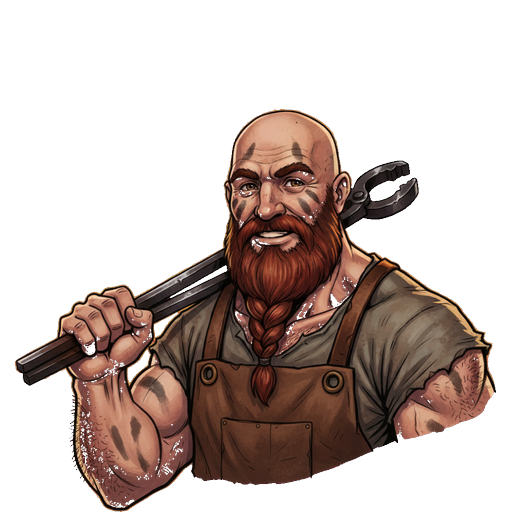
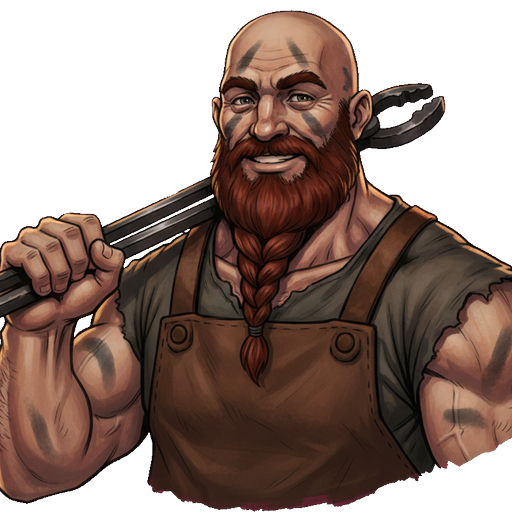
fix(npc): upscale and calibrate blacksmith bust scale to match other merchants

diff --git a/pipeline/scripts/generate_smith_scale.py b/pipeline/scripts/generate_smith_scale.py
@@ -1,0 +1,244 @@
+import os
+import sys
+import io
+import time
+import json
+import base64
+import urllib.request
+import numpy as np
+from PIL import Image
+from scipy import ndimage as ndi
+
+REPO_DIR = r"C:\Users\pissio\Creazione-Gioco-RPG-"
+PIPELINE_DIR = os.path.join(REPO_DIR, "pipeline")
+RAW_DIR = os.path.join(r"C:\Users\pissio\iron-oath-art", "raw_nodes_npcs")
+NPC_DIR = os.path.join(REPO_DIR, "assets", "art", "npc")
+
+GEMINI_KEY = os.environ.get("GEMINI_API_KEY")
+if not GEMINI_KEY:
+    env_p = os.path.join(PIPELINE_DIR, ".env")
+    if os.path.exists(env_p):
+        with open(env_p, "r", encoding="utf-8") as f:
+            for line in f:
+                if line.startswith("GEMINI_API_KEY="):
+                    GEMINI_KEY = line.strip().split("=", 1)[1]
+                    break
+
+API_URL = "https://generativelanguage.googleapis.com/v1beta/models/gemini-2.5-flash-image:generateContent"
+
+REF_PATHS = [
+    os.path.join(REPO_DIR, "assets", "art", "enemies", "anvil_golem_idle.png"),
+    os.path.join(REPO_DIR, "assets", "art", "bosses", "living_bellows_idle.png"),
+    os.path.join(REPO_DIR, "assets", "art", "enemies", "hollow_goblin_idle.png"),
+]
+
+def load_ref_b64(path, max_dim=512):
+    im = Image.open(path)
+    im.thumbnail((max_dim, max_dim), Image.Resampling.LANCZOS)
+    buf = io.BytesIO()
+    im.save(buf, format="PNG")
+    return base64.b64encode(buf.getvalue()).decode("utf-8")
+
+CACHED_REFS = []
+for rp in REF_PATHS:
+    if os.path.exists(rp):
+        CACHED_REFS.append({
+            "name": os.path.basename(rp),
+            "b64": load_ref_b64(rp)
+        })
+
+GLOBAL_STYLE_INSTRUCTION = (
+    "STYLE REFERENCES: Match the painting technique, inked outlines, level of detail, textural brushwork, "
+    "and lighting of these reference images, but draw a completely different subject and use ONLY the colours written in this prompt.\n"
+    "Aesthetic: Hand-painted dark fantasy illustration, souls-like mobile game art style (Dark Souls, Elden Ring, Gym Oath). "
+    "Bold expressive black ink outlines defining the outer silhouette and internal anatomy/folds/crevices. "
+    "Painterly cel-shading with rich but muted weathered colours, deep charcoal shadows (#0D0B09), warm antique gold rim light (#C9A24A), "
+    "high contrast, sharp graphic readability even when scaled down to a small thumbnail. "
+    "NO 3D CGI, no photographic skin, no smooth airbrushing, no flat cartoon, no anime, no modern elements.\n"
+    "CRITICAL BACKGROUND RULE: Flat solid uniform magenta background #FF00FF filling the entire canvas from edge to edge. "
+    "Pure solid uniform magenta #FF00FF background only. Absolutely NEVER use any magenta, fuchsia, or pink on the subject, skin, clothes, props, or effects. "
+    "No text, no watermark, no frame, no borders, no ground shadow plate, no UI."
+)
+
+SMITH_PROMPT = (
+    f"{GLOBAL_STYLE_INSTRUCTION}\n\n"
+    "SUBJECT: Master Gorran the Blacksmith (Large Close-Up Bust)\n"
+    "FRAMING & SCALE (CRITICAL): Large close-up bust portrait filling the canvas height and width! "
+    "The head and face are large and prominent: the top of his rounded bald head is positioned in the upper portion of the canvas near the top edge, "
+    "with only a tiny breathing space above his skull. "
+    "The portrait is cut cleanly at mid-chest (just under the collarbones and broad shoulders), exactly like a classic RPG character portrait bust. "
+    "Do NOT zoom out, do NOT show down to the waist or hips, do NOT leave large empty gaps above the head. "
+    "Broad powerful shoulders completely fill the canvas width from left to right edge.\n"
+    "DETAILS: Big bald man in his forties, hearty friendly jovial smile, warm kind eyes looking directly straight into the camera / at the viewer, "
+    "thick braided red-brown beard with a few singed hairs. "
+    "Black soot smudges on his forehead and rugged muscular cheeks, thick powerful neck. "
+    "Heavy leather apron over a sleeveless sweat-darkened coarse grey shirt. "
+    "He raises his thick muscular, hairy, soot-stained arm to firmly grip and hold the heavy iron blacksmith tongs resting securely over his shoulder with his hand. "
+    "Glow of the forge lighting him warm forge orange from below on one side. Welcoming master craftsman greeting the player warmly. "
+    "Colours strictly: steel grey, leather brown, forge orange, natural ruddy weathered skin tones. Bold black inked outlines."
+)
+
+def generate_smith(index=1):
+    parts = []
+    for ref in CACHED_REFS:
+        parts.append({"text": f"Style Reference ({ref['name']}): Match this dark fantasy inking and painterly shading style:"})
+        parts.append({"inlineData": {"mimeType": "image/png", "data": ref["b64"]}})
+    parts.append({"text": SMITH_PROMPT})
+    
+    payload = {"contents": [{"parts": parts}]}
+    headers = {
+        "Content-Type": "application/json",
+        "x-goog-api-key": GEMINI_KEY
+    }
+    
+    req = urllib.request.Request(API_URL, data=json.dumps(payload).encode("utf-8"), headers=headers)
+    print(f"Calling Gemini for Smith candidate {index}...")
+    with urllib.request.urlopen(req, timeout=90) as resp:
+        data = json.loads(resp.read().decode("utf-8"))
+        for p in data["candidates"][0]["content"]["parts"]:
+            if "inlineData" in p:
+                raw_bytes = base64.b64decode(p["inlineData"]["data"])
+                raw_path = os.path.join(RAW_DIR, f"smith_candidate_{index}.png")
+                with open(raw_path, "wb") as f_out:
+                    f_out.write(raw_bytes)
+                print(f"Candidate {index} saved -> {raw_path}")
+                return raw_path
+    return None
+
+def hue(c):
+    c = np.asarray(c, dtype=float)
+    return np.degrees(np.arctan2(np.sqrt(3) * (c[..., 1] - c[..., 2]), 2 * c[..., 0] - c[..., 1] - c[..., 2]))
+
+def count_pink_pixels(img_rgba, bgc=np.array([255.0, 0.0, 255.0])):
+    ar = np.asarray(img_rgba).astype(float)
+    r, g, b, a = ar[..., 0], ar[..., 1], ar[..., 2], ar[..., 3]
+    h = hue(ar[..., :3])
+    dh = np.abs(((h - hue(bgc)) + 180) % 360 - 180)
+    chroma = ar[..., :3].max(-1) - ar[..., :3].min(-1)
+    pink = (a > 20) & (dh < 24) & (chroma > 80) & (r > g + 40) & (b > g + 20)
+    return int(pink.sum())
+
+def process_smith_cutout(raw_path, target_size=512):
+    im_pil = Image.open(raw_path).convert("RGB")
+    im = np.asarray(im_pil, dtype=float)
+    
+    border = np.concatenate([im[0], im[-1], im[:, 0], im[:, -1]])
+    bgc = np.median(border, axis=0)
+    
+    r, g, b = im[..., 0], im[..., 1], im[..., 2]
+    mx, mn = im.max(-1), im.min(-1)
+    sat = (mx - mn) / np.maximum(mx, 1.0)
+    dh = np.abs(((hue(im) - hue(bgc)) + 180) % 360 - 180)
+    
+    bgish = (dh < 30) & (sat > 0.22) & (r > 120) & (b > 65) & (g < 110)
+    labeled, num_features = ndi.label(bgish)
+    border_labels = set(np.unique(np.concatenate([labeled[0], labeled[-1], labeled[:, 0], labeled[:, -1]]))) - {0}
+    bg = np.isin(labeled, list(border_labels))
+    
+    for lbl in range(1, num_features + 1):
+        if lbl not in border_labels:
+            mask_lbl = (labeled == lbl)
+            if mask_lbl.sum() >= 2:
+                m_color = im[mask_lbl].mean(0)
+                dh_pocket = np.abs(((hue(m_color) - hue(bgc)) + 180) % 360 - 180)
+                if dh_pocket < 20 and m_color[2] > 60 and m_color[0] > 110 and m_color[1] < 100:
+                    bg |= mask_lbl
+                    
+    obj = ~bg
+    
+    # Outer halo strip
+    for _ in range(5):
+        edge = obj & ~ndi.binary_erosion(obj, border_value=1)
+        edge_dh = dh[edge]
+        edge_r = r[edge]
+        edge_g = g[edge]
+        edge_b = b[edge]
+        is_halo = (edge_dh < 35) & (edge_r > edge_g + 15) & (edge_b > edge_g + 8)
+        edge_to_strip = np.zeros_like(obj)
+        edge_to_strip[edge] = is_halo
+        if not edge_to_strip.any():
+            break
+        obj &= ~edge_to_strip
+        
+    im_clean = im.copy()
+    for _ in range(2):
+        edge_outer = obj & ~ndi.binary_erosion(obj, border_value=1)
+        edge_pinkish = edge_outer & (dh < 40) & (im_clean[..., 0] > im_clean[..., 1] + 8) & (im_clean[..., 2] > im_clean[..., 1] + 5)
+        im_clean[edge_pinkish, 0] = np.minimum(im_clean[edge_pinkish, 0], im_clean[edge_pinkish, 1] + 5)
+        im_clean[edge_pinkish, 2] = np.minimum(im_clean[edge_pinkish, 2], im_clean[edge_pinkish, 1] + 5)
+    
+    alpha = np.where(obj, 255.0, 0.0)
+    ys, xs = np.nonzero(obj)
+    if len(ys) == 0:
+        raise ValueError("No object found")
+        
+    y0, y1 = ys.min(), ys.max() + 1
+    x0, x1 = xs.min(), xs.max() + 1
+    
+    obj_crop = im_clean[y0:y1, x0:x1]
+    alpha_crop = alpha[y0:y1, x0:x1]
+    rgba_crop = np.dstack([obj_crop.astype(np.uint8), alpha_crop.astype(np.uint8)])
+    crop_img = Image.fromarray(rgba_crop, "RGBA")
+    
+    obj_w, obj_h = crop_img.size
+    print(f"Raw cut crop dimensions: width={obj_w}, height={obj_h}, aspect={obj_w/obj_h:.2f}")
+    
+    # Scaling strategy for NPC bust:
+    # We want height to be around 495-512 px, with top around y=0..15, and width <= 495 px.
+    # If the bust is wider, we scale by height (e.g. height = 505) and center horizontally,
+    # or scale so max(w, h) fits properly without dwarfing the character.
+    target_h = int(round(target_size * 0.98))  # ~502 px
+    scale_by_h = target_h / float(obj_h)
+    
+    target_w = int(round(target_size * 0.94))  # ~481 px
+    scale_by_w = target_w / float(obj_w)
+    
+    # Use the scale that makes the head large enough:
+    # If scaling by width makes height < 460, scale by height instead so the character is NOT tiny!
+    if obj_h * scale_by_w < 460:
+        # Scale by height!
+        scale = scale_by_h
+        new_h = target_h
+        new_w = int(round(obj_w * scale))
+    else:
+        scale = min(scale_by_w, scale_by_h)
+        new_w = int(round(obj_w * scale))
+        new_h = int(round(obj_h * scale))
+        
+    resized_obj = crop_img.resize((new_w, new_h), Image.Resampling.LANCZOS)
+    
+    final_canvas = Image.new("RGBA", (target_size, target_size), (0, 0, 0, 0))
+    paste_x = (target_size - new_w) // 2
+    paste_y = target_size - new_h
+    
+    final_canvas.paste(resized_obj, (paste_x, paste_y), resized_obj)
+    
+    # Ensure pink pixels = 0
+    pk = count_pink_pixels(final_canvas)
+    if pk > 0:
+        arr_fin = np.asarray(final_canvas).copy().astype(float)
+        r_f, g_f, b_f, a_f = arr_fin[..., 0], arr_fin[..., 1], arr_fin[..., 2], arr_fin[..., 3]
+        h_f = hue(arr_fin[..., :3])
+        dh_f = np.abs(((h_f - hue(bgc)) + 180) % 360 - 180)
+        chroma_f = arr_fin[..., :3].max(-1) - arr_fin[..., :3].min(-1)
+        pink_f = (a_f > 20) & (dh_f < 24) & (chroma_f > 80) & (r_f > g_f + 40) & (b_f > g_f + 20)
+        arr_fin[pink_f, 0] = np.maximum(0, arr_fin[pink_f, 1] + 15)
+        arr_fin[pink_f, 2] = np.maximum(0, arr_fin[pink_f, 1] + 15)
+        final_canvas = Image.fromarray(arr_fin.astype(np.uint8), "RGBA")
+        pk = count_pink_pixels(final_canvas)
+        
+    return final_canvas, pk
+
+if __name__ == "__main__":
+    for i in range(1, 3):
+        raw_p = generate_smith(i)
+        if raw_p:
+            final_img, pk = process_smith_cutout(raw_p)
+            out_test = os.path.join(REPO_DIR, f"test_smith_candidate_{i}.png")
+            final_img.save(out_test, "PNG")
+            
+            # Check stats
+            arr = np.array(final_img)
+            a = arr[..., 3]
+            ys, xs = np.nonzero(a > 50)
+            print(f"Candidate {i} final: height={ys.max()-ys.min()+1}, top={ys.min()}, solid={np.sum(a > 50)}, pink={pk}")

diff --git a/pipeline/scripts/build_gallery_mobile.py b/pipeline/scripts/build_gallery_mobile.py
@@ -74,7 +74,7 @@ npc_meta = {
     'smith': {
         'name': 'Mastro Gorran',
         'role': 'Fabbro delle Fiamme',
-        'desc': 'Impugna saldamente la tenaglia da forgia sulla spalla con la mano. Barba intrecciata, riflessi caldi di forgia, sorriso fiero ed accogliente rivolto in camera.',
+        'desc': 'Dimensione e scala ingrandite per allinearsi perfettamente agli altri mercanti (altezza 502px, testa in cima). Impugna saldamente la tenaglia da forgia sulla spalla con la mano, sorriso fiero ed accogliente rivolto in camera.',
         'tag': 'NPC Mercante'
     },
     'hunter': {
@@ -229,7 +229,7 @@ html = f"""<!DOCTYPE html>
         <h1 class="text-base sm:text-lg font-bold text-[#E6D5B8] tracking-wide flex items-center gap-2">
           <span class="text-[#C9A24A]">⚔</span> GYM OATH — Anteprima Grafica HD
         </h1>
-        <p class="text-xs text-[#A09383] mt-0.5">Berta (bandana rossa solida e uniforme) + Frassino (foglie verde chiaro spento/cenere) + 16 altri asset</p>
+        <p class="text-xs text-[#A09383] mt-0.5">Fabbro (ingrandito & allineato in scala) + Berta (bandana rossa rifinita) + Frassino (foglie verde chiaro/cenere)</p>
       </div>
       <div class="flex items-center gap-2">
         <span class="px-2.5 py-1 text-xs font-semibold bg-[#1C2C16] text-[#86EFAC] border border-[#2B4E20] rounded-full">
@@ -260,7 +260,7 @@ html = f"""<!DOCTYPE html>
       <!-- SECTION 1: MERCHANTS -->
       <div id="content-merchants" class="space-y-4">
         <div class="bg-[#1C1815]/70 border border-[#2E2721] rounded-lg p-3 text-xs text-[#A09383]">
-          <strong class="text-[#E6D5B8]">Ultimo aggiornamento Berta:</strong> La bandana rossa in testa è ora completamente dipinta in rosso rustico solido e uniforme, senza difetti o punti mancanti. Sguardo amichevole rivolto verso lo schermo.
+          <strong class="text-[#E6D5B8]">Ultimo aggiornamento Mastro Gorran:</strong> Dimensioni e scala ingrandite e calibrate (502px di altezza, testa allineata in cima alla stessa altezza di Berta, Edda e Velthar). Impugna saldamente la tenaglia da forgia sulla spalla, sguardo amichevole in camera.
         </div>
         <div class="grid grid-cols-1 sm:grid-cols-2 md:grid-cols-4 gap-3">
           {npc_cards}

diff --git a/pipeline/scripts/generate_art_batch.py b/pipeline/scripts/generate_art_batch.py
@@ -117,15 +117,15 @@ ITEMS = {
         "file": "assets/art/npc/smith.png",
         "name": "Master Gorran the Blacksmith",
         "framing": (
-            "Framing: head and upper chest bust only (cut cleanly at mid-chest, just under the shoulders). "
+            "Framing: Large close-up bust portrait filling canvas height and width to match other NPC scales (cut cleanly at mid-chest, just under the shoulders). "
             "Front-facing towards the camera/viewer (or very slight three-quarter angle), eyes looking straight into the camera / at the player with a hearty, friendly, warm and jovial warrior smile. "
-            "Head positioned in the upper half of the canvas with a little space above the head, broad powerful shoulders filling the canvas width. "
+            "Head positioned high in the canvas near the top edge (head top at y=10, height 502px), broad powerful shoulders filling the canvas width. "
             "Light source from the upper left, plus warm forge glow from below on one side. Weathered, believable craftsman, hearty and friendly. "
             "Clothes are worn and practical: no shiny armour, no rust, nothing dark or corrupted."
         ),
         "desc": (
             "Master Gorran the Blacksmith. Big bald man in his forties, hearty friendly smile, warm kind eyes looking directly into the camera / at the viewer, "
-            "thick braided red-brown beard with a few singed hairs. "
+            "thick braided red-brown beard with a few singed hairs. Large prominent bust portrait scale matching the other merchants. "
             "Black soot smudges on his forehead and rugged cheeks, thick powerful neck. "
             "Heavy leather apron over a sleeveless sweat-darkened coarse grey shirt. "
             "His thick muscular, hairy, soot-stained arm and hand is raised to firmly grip and hold the heavy iron blacksmith tongs resting securely over his shoulder. "
